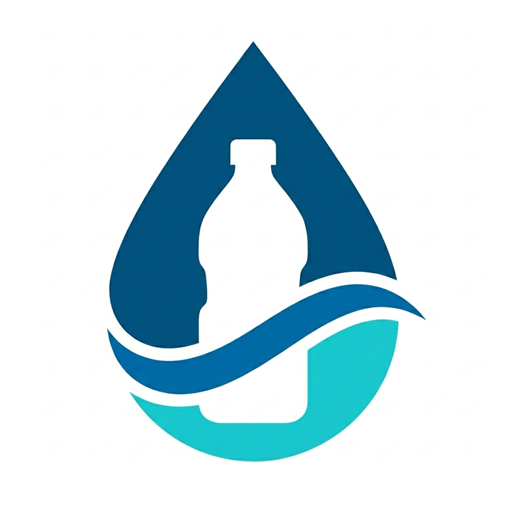
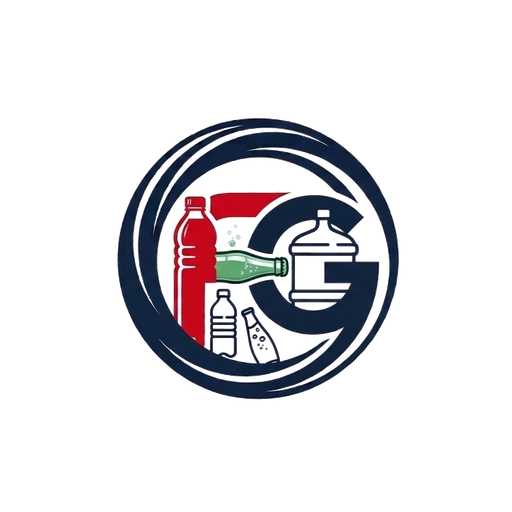
feat: yeni Firtina Gida logosu ve PWA ikonlari
- Giriş ve yükleme ekranlarında tam logo kullanılıyor\n- Mobil başlık ikonu yeni amblemle güncellendi\n- PWA, maskable, apple touch ve favicon ikonları yenilendi\n- Service worker önbelleği v6'ya yükseltildi

Changed region(s): [[0.1875, 0.0625, 0.8438, 0.9062]]

diff --git a/src/components/auth/LoginView.tsx b/src/components/auth/LoginView.tsx
@@ -47,13 +47,10 @@ export const LoginView: React.FC<LoginViewProps> = ({ onLoginSuccess }) => {
       {/* Top Brand Area */}
       <div className="w-full max-w-md mx-auto text-center mb-6">
         <img
-          src="/logo-header.png"
-          alt=""
-          className="inline-block w-14 h-14 rounded-2xl bg-white ring-1 ring-slate-200  shadow-xl shadow-sky-500/20 mb-3 object-contain"
+          src="/logo-firtina-gida.png"
+          alt="Fırtına Gıda"
+          className="inline-block w-56 sm:w-64 max-w-full h-auto mb-3"
         />
-        <h1 className="text-2xl font-black tracking-tight text-slate-900 ">
-          Fırtına <span className="text-sky-600">Gıda</span>
-        </h1>
         <p className="text-xs text-slate-500  mt-1">
           Saha Dağıtım, Yükleme & Gün Sonu Kasa Mutabakat Portalı
         </p>

diff --git a/src/App.tsx b/src/App.tsx
@@ -291,12 +291,12 @@ export default function App() {
     return (
       <div className="min-h-screen bg-slate-50  flex flex-col items-center justify-center p-4">
         <img
-          src="/logo-header.png"
-          alt=""
-          className="w-12 h-12 rounded-2xl bg-white ring-1 ring-slate-200  shadow-xl object-contain animate-bounce"
+          src="/logo-firtina-gida.png"
+          alt="Fırtına Gıda"
+          className="w-52 sm:w-60 max-w-full h-auto mb-4 animate-pulse"
         />
-        <h2 className="mt-4 text-base font-bold text-slate-900 ">
-          Fırtına Gıda Yükleniyor...
+        <h2 className="text-base font-bold text-slate-900 ">
+          Yükleniyor...
         </h2>
         <p className="text-xs text-slate-500 mt-1">Saha ve mutabakat verileri hazırlanıyor</p>
       </div>

diff --git a/src/components/common/Header.tsx b/src/components/common/Header.tsx
@@ -96,7 +96,7 @@ export const Header: React.FC<HeaderProps> = ({
           <img
             src="/logo-header.png"
             alt=""
-            className="w-8 h-8 sm:w-9 sm:h-9 rounded-lg bg-white ring-1 ring-slate-200  object-contain shrink-0"
+            className="w-9 h-9 sm:w-10 sm:h-10 rounded-lg bg-white ring-1 ring-slate-200  object-contain shrink-0"
           />
           <div className="min-w-0">
             <span className="text-[13px] min-[360px]:text-sm sm:text-lg font-bold tracking-tight text-slate-900  whitespace-nowrap">

diff --git a/public/sw.js b/public/sw.js
@@ -1,11 +1,12 @@
 // Fırtına Gıda Service Worker
-const CACHE_NAME = 'sudagitim-cache-v5';
+const CACHE_NAME = 'sudagitim-cache-v6';
 const PRECACHE_ASSETS = [
   '/',
   '/index.html',
   '/favicon.ico',
   '/favicon-32.png',
   '/logo-header.png',
+  '/logo-firtina-gida.png',
   '/pwa-192x192.png',
   '/pwa-512x512.png',
   '/pwa-maskable-512x512.png',
